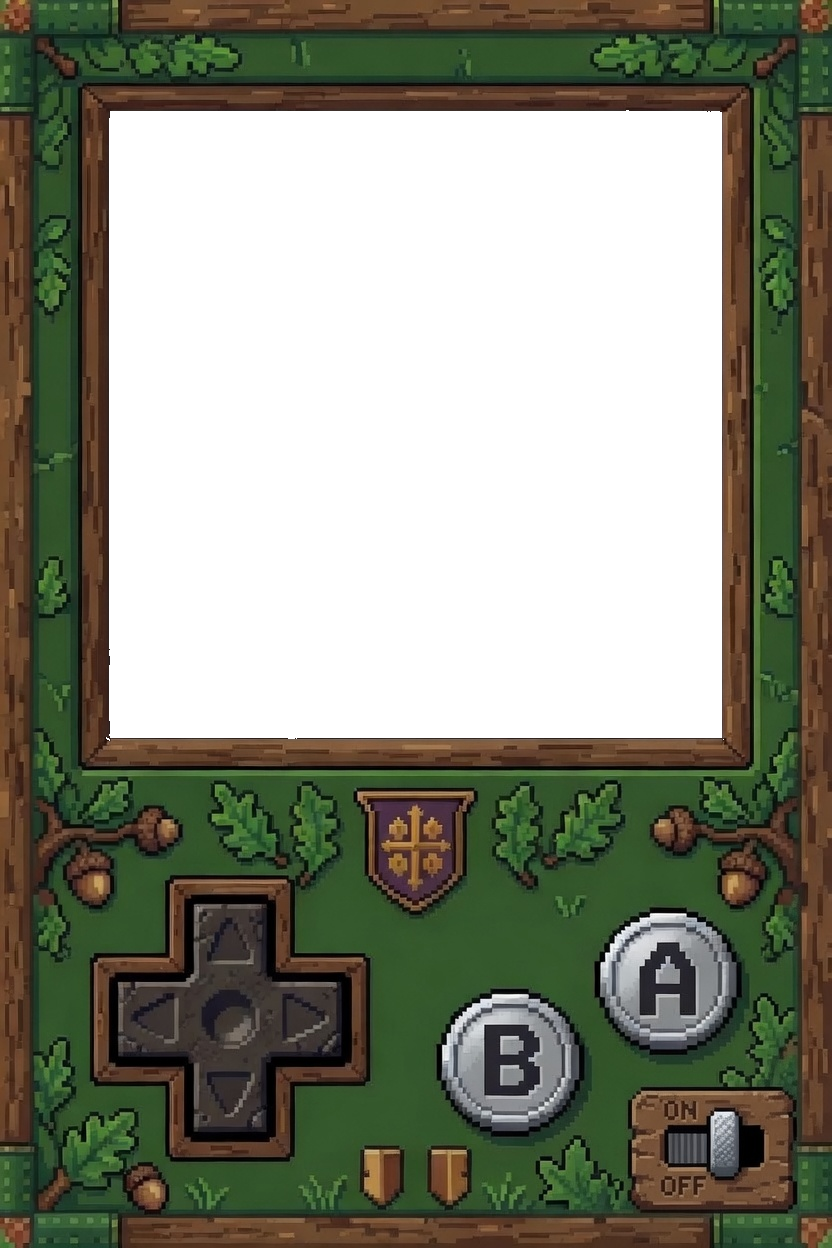
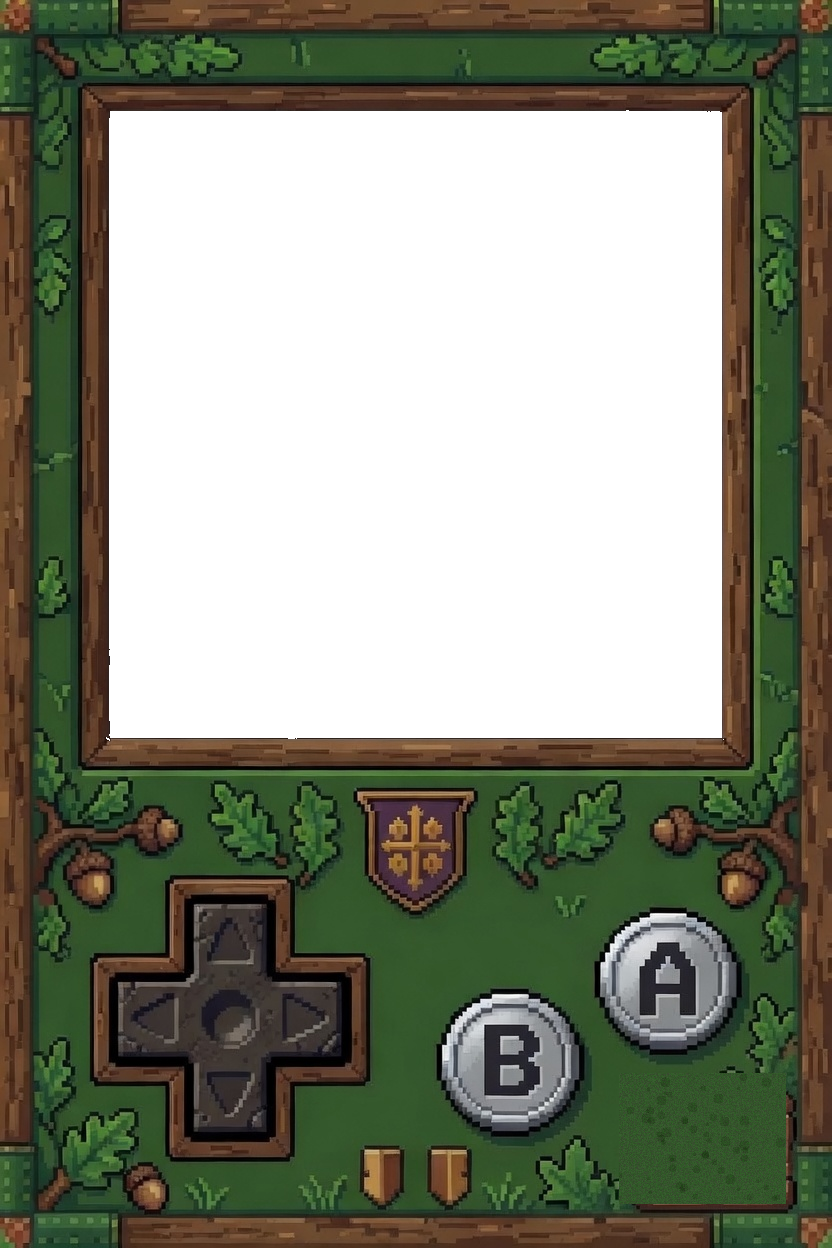
Rob's Hideout: custom power switch + black-screen boot with dark fade-in
- Paint the drawn ON/OFF switch out of the console art and replace it with
  a hand-built brass-and-oak slide switch (own creation), starting OFF.
- At load the screen is a plain black panel until the switch is flipped
  (previously the room showed through immediately).
- Restructure #boot into a persistent black screen with an inner .boot-card
  that drops the title down over it.
- On A: the title darkens to black, holds, then the black slowly lifts
  (1.7s opacity fade) to reveal the bottom room to explore.

Claude-Session: https://claude.ai/code/session_01R8RE8cevt8Xcw4UX4d8WU7

Changed region(s): [[0.75, 0.8438, 0.9688, 0.9688]]

diff --git a/games/robshideout.html b/games/robshideout.html
@@ -90,7 +90,9 @@ body {
 }
 /* boot handled by the title-card overlay; no auto fade here */
 #boot-fade { display: none; }
-/* ── boot: the Rob's Hideout title card drops onto the screen, then fades ── */
+/* ── boot: at load the screen is a plain black panel (#boot). Flip the
+   switch and the title card slides down inside it; press A and the title
+   darkens, then the black slowly lifts to reveal the room. ── */
 #boot {
   position: absolute;
   left: 13.2%;
@@ -99,15 +101,21 @@ body {
   height: 50.3%;
   z-index: 5;
   overflow: hidden;
-  background: #0a0710;
-  transform: translateY(-108%);
-  transition: transform 2.7s cubic-bezier(0.25, 0.9, 0.3, 1), opacity 0.8s ease;
+  background: #000;
+  opacity: 1;
+  transition: opacity 1.7s ease;   /* the slow fade-in from black into the room */
   pointer-events: none;
-  display: none;   /* revealed by bootUp when the power flips on */
 }
-#boot.in   { transform: translateY(0%); }
 #boot.gone { opacity: 0; }
-#boot canvas {
+.boot-card {
+  position: absolute;
+  inset: 0;
+  transform: translateY(-108%);    /* parked above until the switch flips */
+  transition: transform 2.7s cubic-bezier(0.25, 0.9, 0.3, 1), opacity 0.4s ease;
+}
+.boot-card.in { transform: translateY(0%); }   /* drops down */
+#boot.dark .boot-card { opacity: 0; }           /* title darkens to black */
+.boot-card canvas {
   width: 100%;
   height: 100%;
   display: block;
@@ -164,31 +172,74 @@ body {
   text-decoration-color: #c0392b;
   text-decoration-thickness: 0.45cqw;
 }
-/* power switch: an invisible hotspot laid right over the wooden ON/OFF
-   switch drawn into the forest console art. Flip it to boot Rob's Hideout. */
+/* power switch: a hand-built brass-and-oak slide switch mounted where the
+   art's drawn switch used to be (that one is painted out). Starts OFF (knob
+   left); slide it right to ON to boot Rob's Hideout. */
 #power {
   position: absolute;
   z-index: 3;
-  left: 75.5%;
-  top: 87.3%;
-  width: 20%;
-  height: 8.2%;
+  left: 74%;
+  top: 86.7%;
+  width: 21%;
+  height: 9.4%;
   touch-action: none;
   cursor: pointer;
 }
-/* the art supplies the track, ON/OFF labels and knob — keep the DOM ones
-   present (the boot script still nudges #pw-knob) but invisible */
-#pw-track { position: absolute; inset: 0; background: transparent; border: none; }
-.pw-txt { display: none; }
+#pw-track {
+  position: absolute;
+  inset: 0;
+  background: linear-gradient(180deg, #7a5330 0%, #4d3220 55%, #3a2414 100%);
+  border: 0.5cqw solid #241608;
+  border-radius: 2.6cqw;
+  box-shadow: inset 0 0.5cqw 0 rgba(210,160,90,0.35),
+              inset 0 -0.6cqw 0.8cqw rgba(0,0,0,0.55),
+              0 0.5cqw 0.7cqw rgba(0,0,0,0.45);
+  overflow: hidden;
+}
+/* recessed channel the knob rides in */
+#pw-track::before {
+  content: '';
+  position: absolute;
+  left: 5%; right: 5%; top: 33%; height: 34%;
+  background: rgba(18,10,4,0.6);
+  border-radius: 2cqw;
+  box-shadow: inset 0 0.3cqw 0.5cqw rgba(0,0,0,0.7);
+}
+.pw-txt {
+  position: absolute;
+  top: 50%;
+  transform: translateY(-50%);
+  font-size: 2cqw;
+  letter-spacing: 0.15cqw;
+  color: #e6c877;
+  opacity: 0.85;
+  pointer-events: none;
+  text-shadow: 0 0.2cqw 0 rgba(0,0,0,0.6);
+}
+.pw-txt.pw-off { left: 8%; }     /* knob rests here at OFF */
+.pw-txt.pw-on  { right: 7%; }    /* slide toward ON */
+#power.on .pw-txt.pw-on  { color: #b6f0a0; text-shadow: 0 0 1.6cqw rgba(120,220,120,0.8); }
+#power.on .pw-txt.pw-off { opacity: 0.3; }
 #pw-knob {
   position: absolute;
-  top: 12%;
+  top: 11%;
   left: 3%;
-  width: 44%;
-  height: 76%;
-  border-radius: 2.6cqw;
-  opacity: 0;
-  pointer-events: none;
+  width: 46%;
+  height: 78%;
+  border-radius: 2.2cqw;
+  background: linear-gradient(180deg, #f8e9b6 0%, #d3aa52 45%, #a97f34 100%);
+  border: 0.4cqw solid #5a4014;
+  box-shadow: inset 0 0.4cqw 0 rgba(255,248,214,0.75),
+              inset 0 -0.5cqw 0.5cqw rgba(90,64,20,0.6),
+              0 0.6cqw 0.9cqw rgba(0,0,0,0.55);
+}
+/* grip ridges on the knob */
+#pw-knob::after {
+  content: '';
+  position: absolute;
+  left: 32%; right: 32%; top: 24%; bottom: 24%;
+  background: repeating-linear-gradient(90deg,
+              rgba(90,64,20,0.65) 0 0.4cqw, transparent 0.4cqw 1.3cqw);
 }
 /* ---- Casino-wide chat panel: covers the CONTROL area (d-pad and
         buttons), never the game screen above ---- */
@@ -414,7 +465,7 @@ body {
   <div id="bezel"></div>
   <div id="bezel-in"></div>
   <div id="boot-fade"></div>
-  <div id="boot"><canvas id="boot-cvs" width="480" height="480"></canvas><div id="boot-press">PRESS A</div></div>
+  <div id="boot"><div class="boot-card" id="boot-card"><canvas id="boot-cvs" width="480" height="480"></canvas></div><div id="boot-press">PRESS A</div></div>
   <div class="hot" id="dpad"></div>
   <div class="hot" id="btn-b"></div>
   <div class="hot" id="btn-a"></div>
@@ -1737,6 +1788,7 @@ function powerOff() {
 }
 (function initBoot() {
   const bootEl  = document.getElementById('boot');
+  const bootCard = document.getElementById('boot-card');
   const pressEl = document.getElementById('boot-press');
   const el      = document.getElementById('power');
   const knob    = document.getElementById('pw-knob');
@@ -1757,11 +1809,12 @@ function powerOff() {
     ready = false;
     pressEl.classList.remove('on');
     bootEl.style.display = 'block';
-    bootEl.style.transition = 'none';
-    bootEl.classList.remove('in', 'gone');
-    void bootEl.offsetHeight;                // reflow so the drop replays
-    bootEl.style.transition = '';
-    bootEl.classList.add('in');              // title card drifts down...
+    bootEl.classList.remove('dark', 'gone');
+    bootCard.style.transition = 'none';
+    bootCard.classList.remove('in');
+    void bootCard.offsetHeight;              // reflow so the drop replays
+    bootCard.style.transition = '';
+    bootCard.classList.add('in');            // title card drifts down onto the black...
     play(sndCapcom);                         // ...to the jingle
     await new Promise(r => setTimeout(r, 2700));
     if (!on || booted) return;               // flipped back off mid-drop
@@ -1769,22 +1822,28 @@ function powerOff() {
     ready = true;
   }
 
-  /* A / tap / Enter, once the card has landed → into the game */
+  /* A / tap / Enter, once the card has landed → step into the room:
+     the title darkens to black, holds a beat, then the black slowly lifts
+     to reveal the bottom room, free to explore */
   function confirm() {
     if (!on || !ready || booted) return;
     ready = false;
-    play(sndSelect);
-    pressEl.classList.remove('on');
-    bootEl.classList.add('gone');            // title card fades out...
-    setTimeout(() => { bootEl.style.display = 'none'; }, 850);
     booted = true; started = true; titleAlpha = 0;
     aQueued = bQueued = false;               // don't leak the confirm press into the game
-    sound.unlock();                          // music + SFX come up now
+    play(sndSelect);                         // confirm blip
+    pressEl.classList.remove('on');
+    bootEl.classList.add('dark');            // title fades to a black screen
+    setTimeout(() => {
+      sound.unlock();                        // music + SFX rise as the room appears
+      bootEl.classList.add('gone');          // black slowly fades into the room
+    }, 750);
+    setTimeout(() => { bootEl.style.display = 'none'; }, 750 + 2000);
   }
 
   function commit() {
     on = !on;
     setKnob(on ? 1 : 0);
+    el.classList.toggle('on', on);
     if (on) { if (!booted) bootUp(); }
     else if (booted) powerOff();
   }
